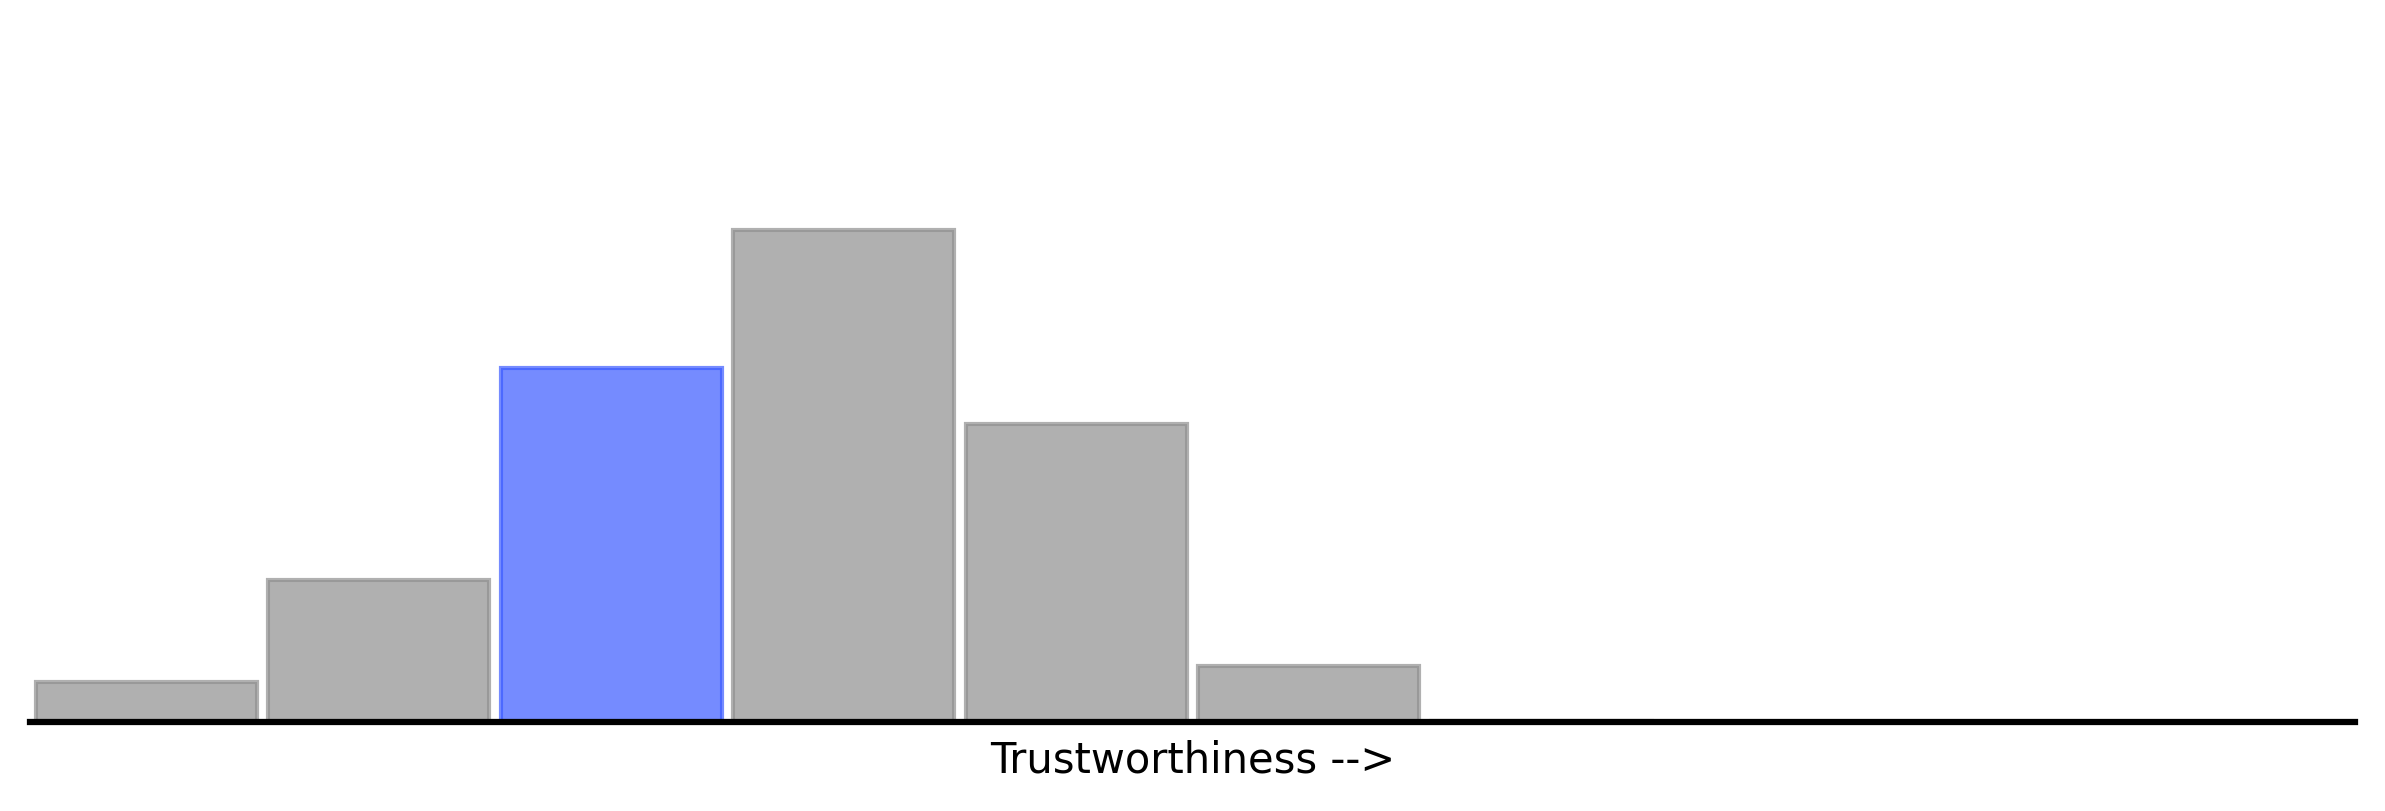
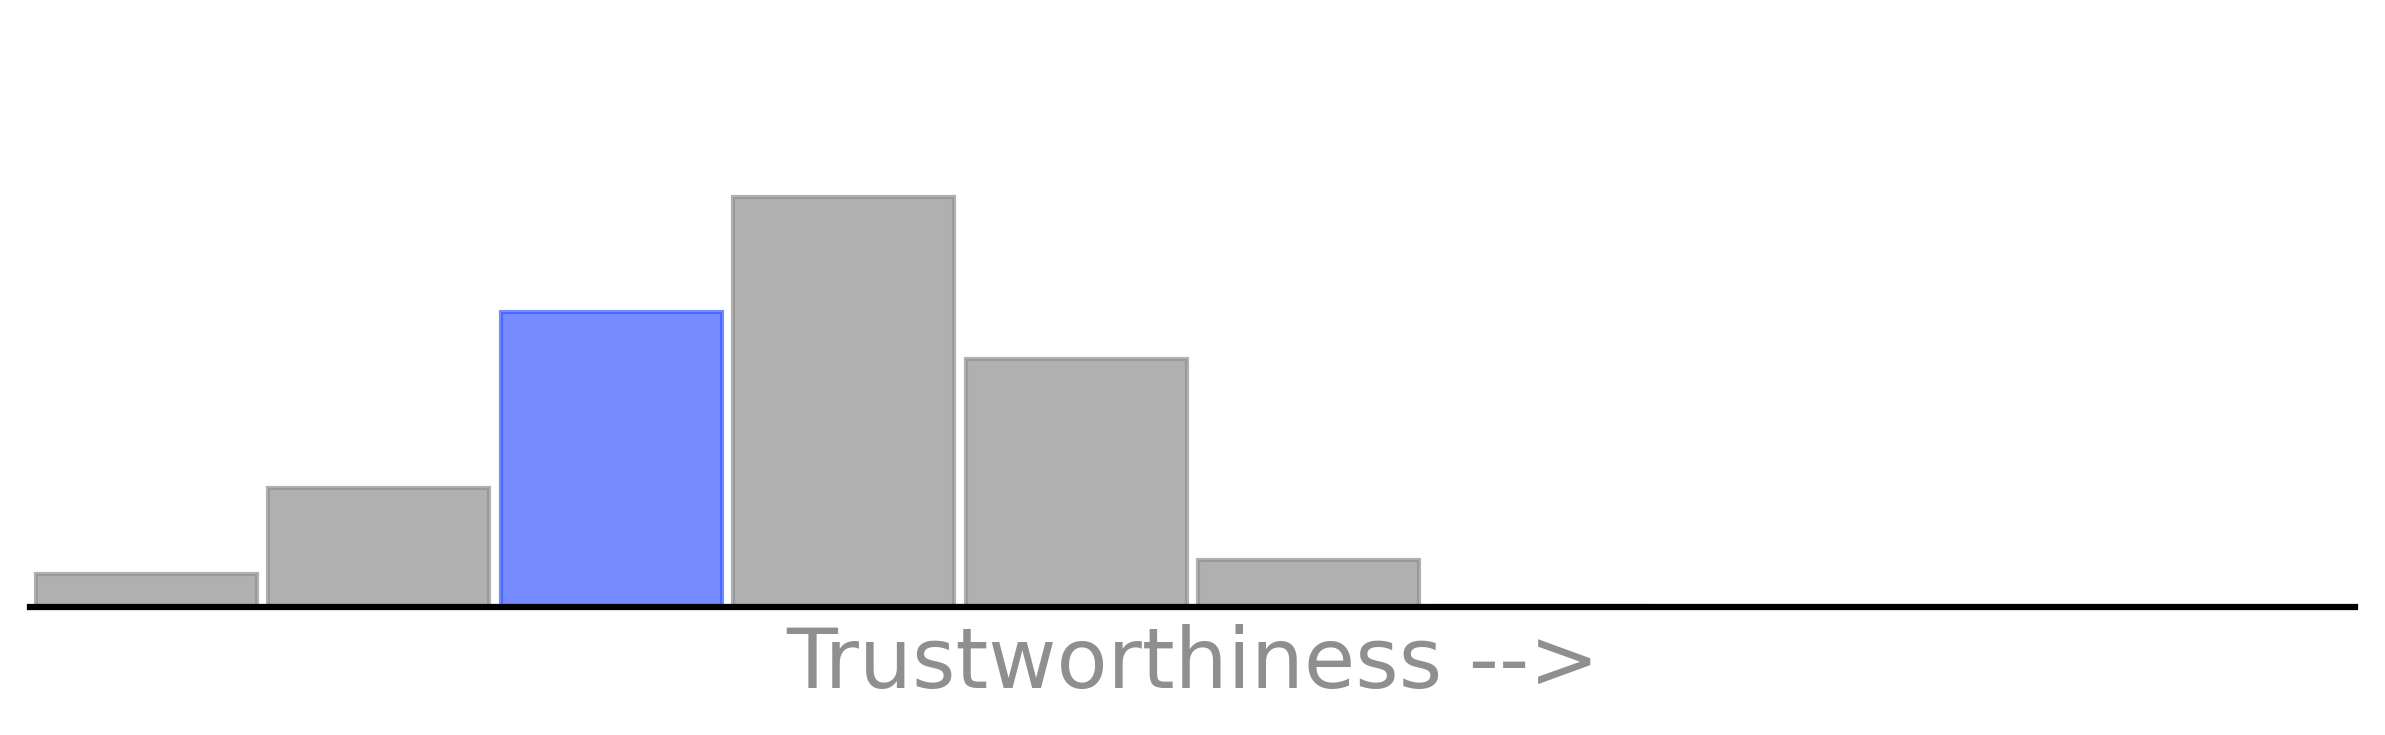
update the percentile images

diff --git a/README.md b/README.md
@@ -12,7 +12,7 @@ This grade is based on the percentile rankings of the 3 trust component scores b
 <summary><span style="font-size: 20px;"><strong>Community Activity and Integrity -- </strong>Beats <strong><span style="color: blue;">20.0%</span></strong> Other Repos</summary>
 <div>
 <div align=center>
-  <img src="./images/roughViz/community_activity_and_integrity_component.png" width="500px" height="125px">
+  <img src="./images/roughViz/community_activity_and_integrity_component.png" width="500px" height="170px">
 </div>
 Activity and usage by this project’s consumers and contributors. More people using and contributing to this project increases these metrics.<br><br>
 </div>
@@ -49,7 +49,7 @@ Activity and usage by this project’s consumers and contributors. More people u
 <summary><span style="font-size: 20px;"><strong>Maintenance and Goodwill -- </strong>Beats <strong><span style="color: blue;">24.8%</span></strong> Other Repos</summary>
 <div>
 <div align=center>
-  <img src="./images/roughViz/maintenance_and_goodwill_component.png" width="500px" height="125px">
+  <img src="./images/roughViz/maintenance_and_goodwill_component.png" width="500px" height="170px">
 </div>
 Activity and involvement by this project’s maintainer(s) for the benefit of the project community. Maintainers could increase these metrics by extending documentation and being more responsive to community participation (especially issues and PRs).<br><br>
 </div> 
@@ -84,7 +84,7 @@ Activity and involvement by this project’s maintainer(s) for the benefit of th
 <summary><span style="font-size: 20px;"><strong>Code Quality -- </strong>Beats <strong><span style="color: blue;">12.4%</span></strong> Other Repos</summary>
 <div>
 <div align=center>
-  <img src="./images/roughViz/code_quality_component.png" width="500px" height="125px">
+  <img src="./images/roughViz/code_quality_component.png" width="500px" height="170px">
 </div><br>
 Security and scalability of the project’s code. Contributors can increase these metrics by maintaining the dependencies and setting up automated testing and procedural reviews.<br><br>
 </div>   
